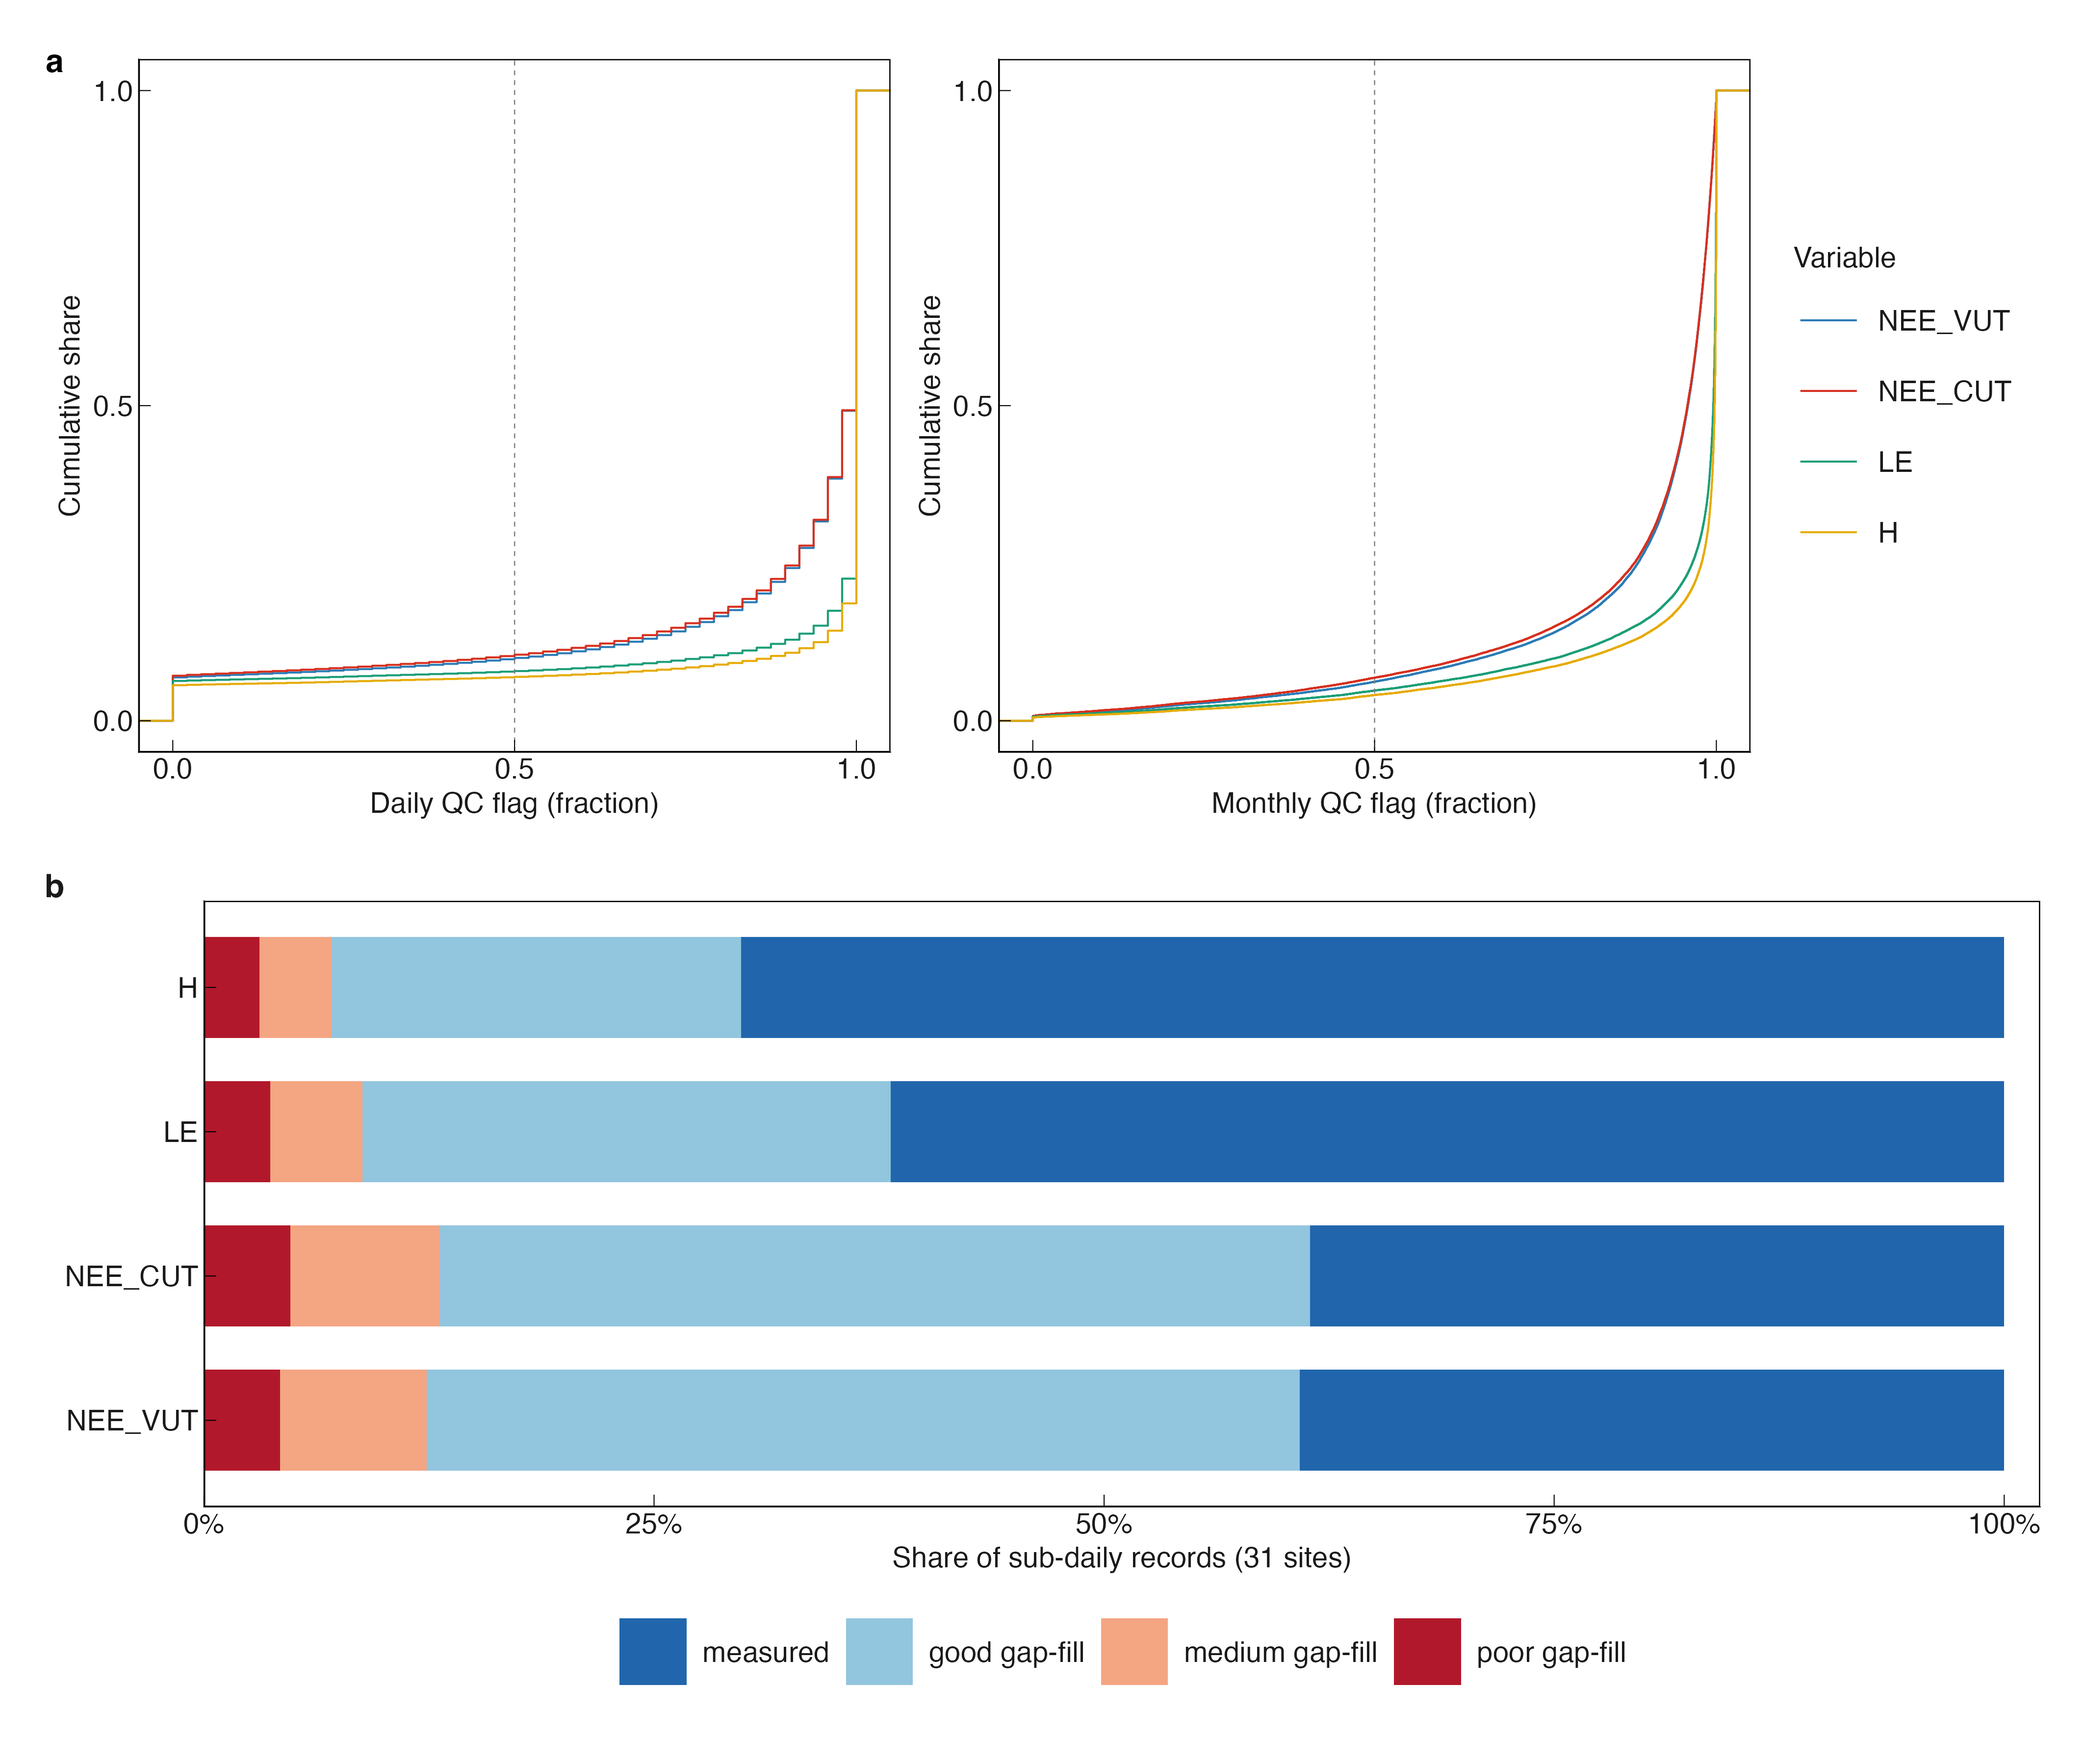
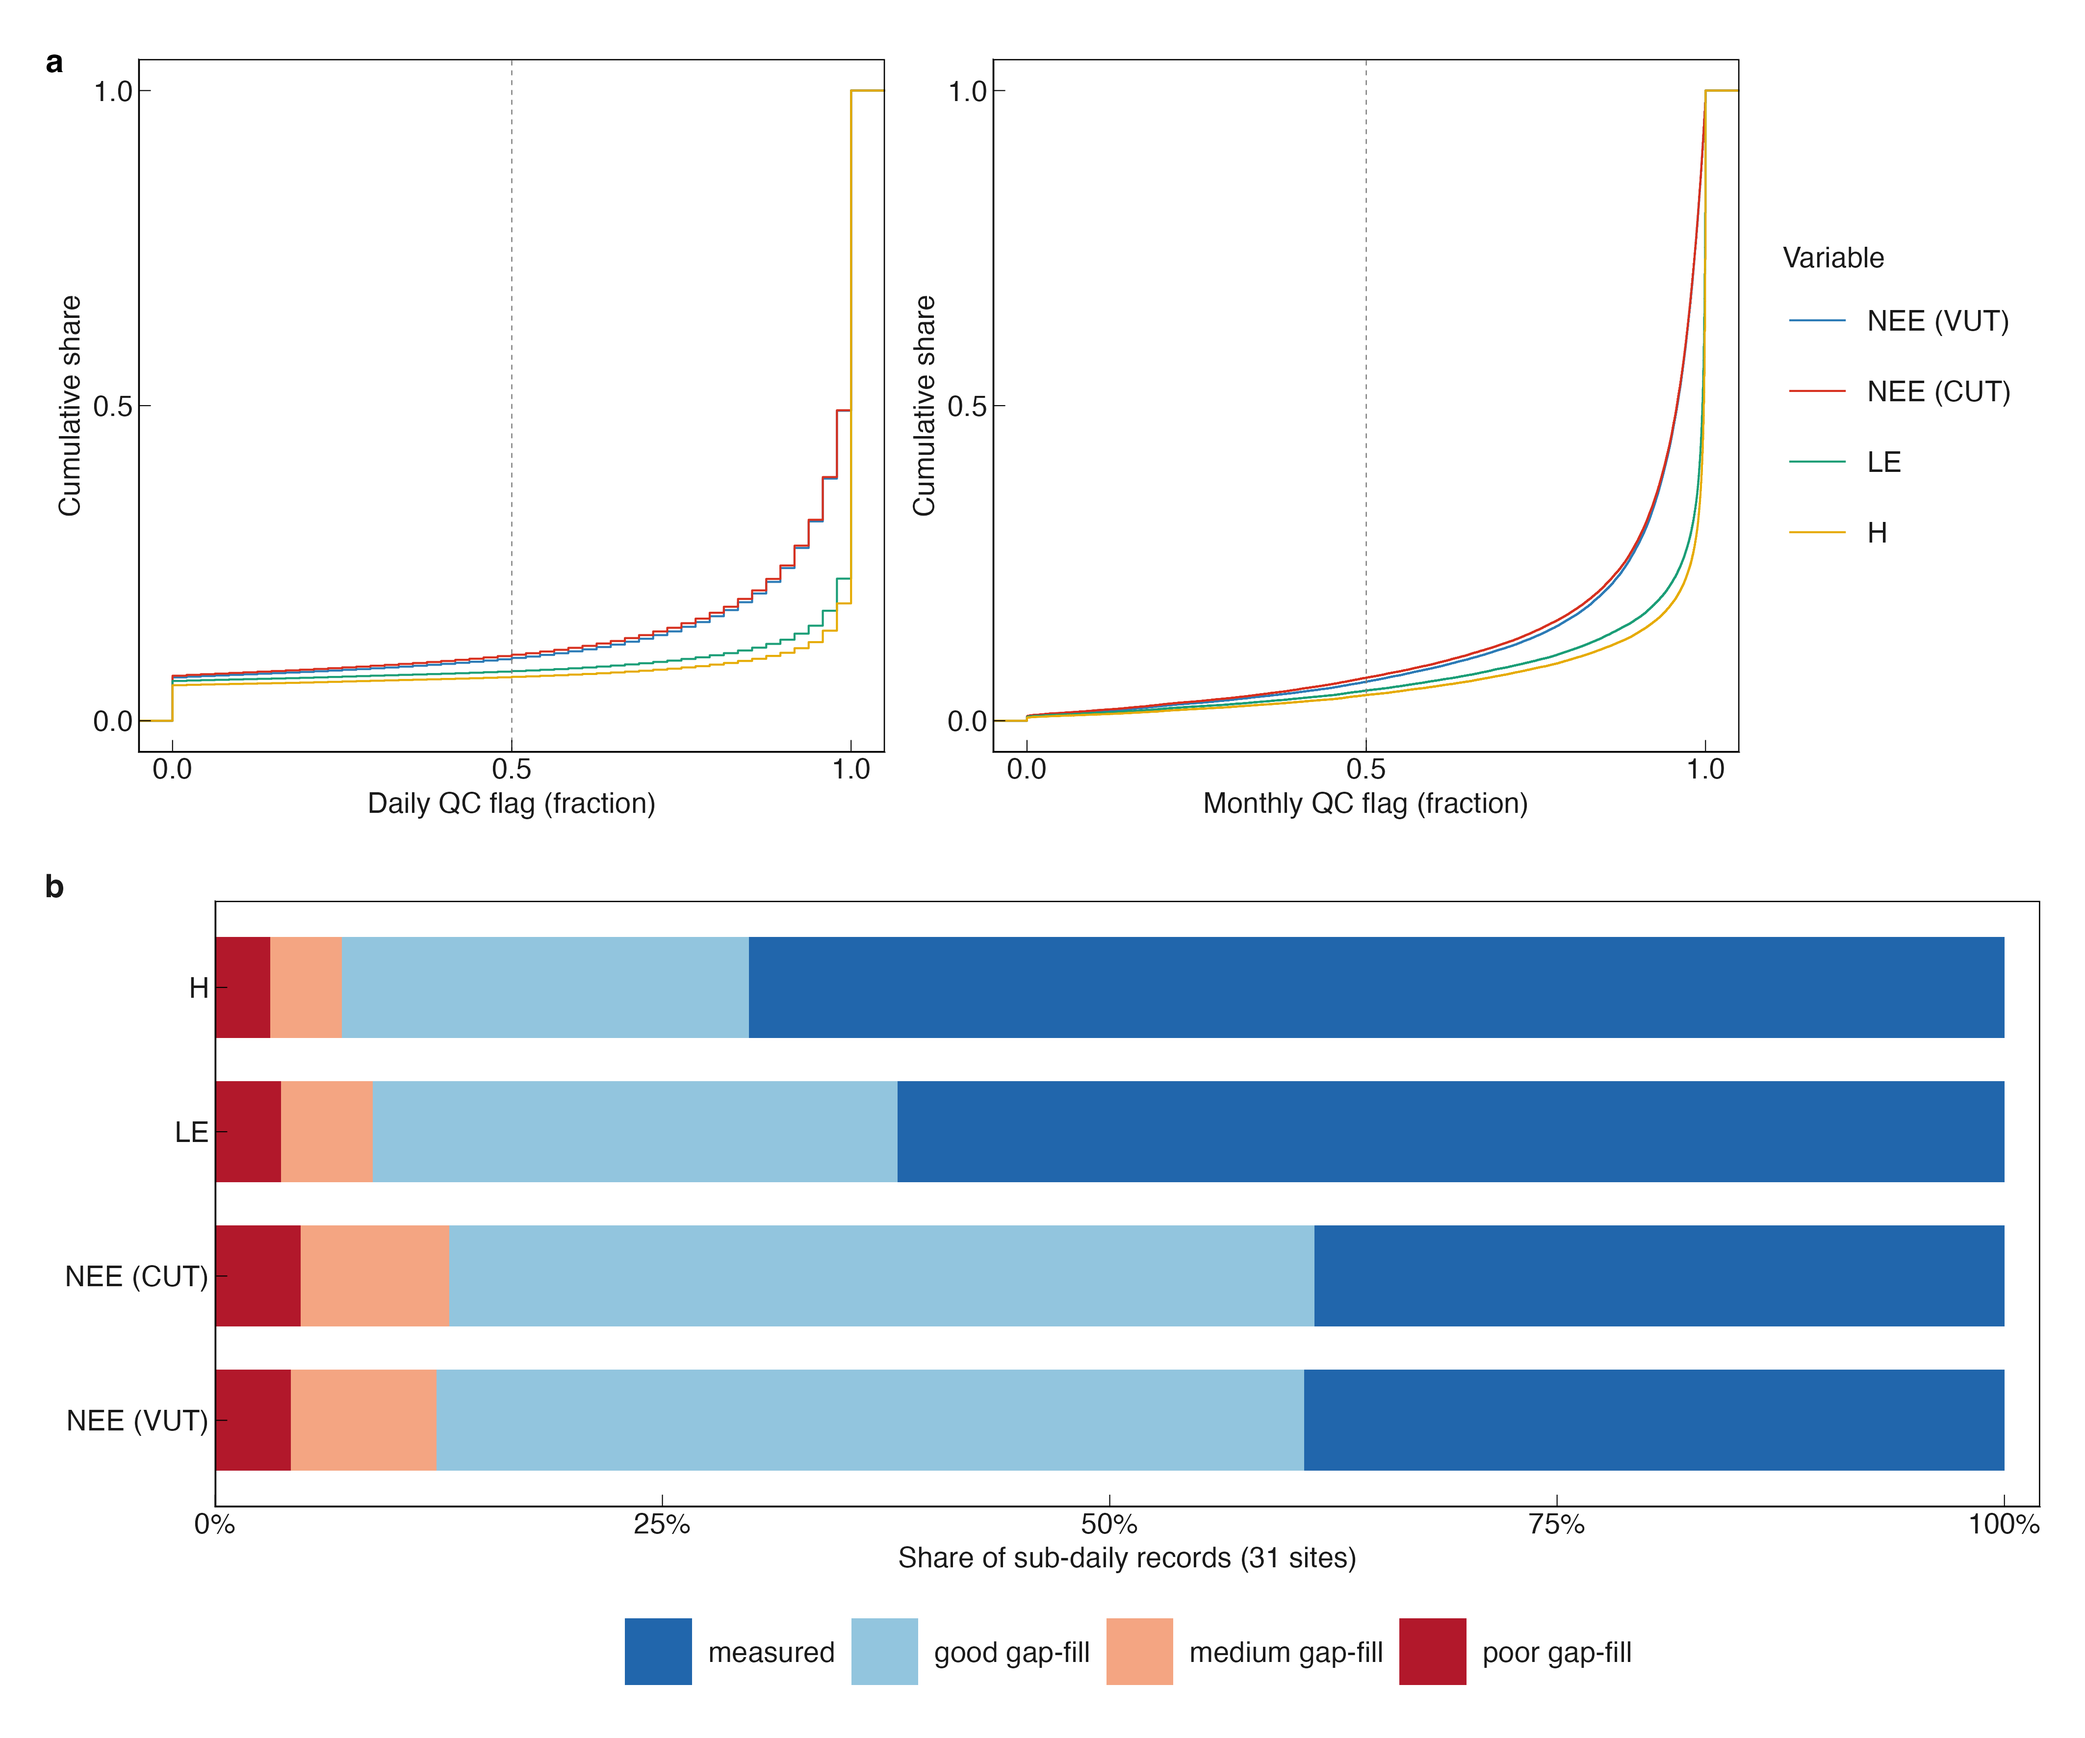
Fix Figure 6 panel c text layout and NEE_VUT/NEE_CUT display labels
Figure 6 panel c: the in-panel annotation collided with the y-axis
"1500" tick label and its three lines were mutually misaligned. Cause:
annotate("text") with a non-0/1 hjust mis-justifies a multi-line label's
lines relative to each other. Fixed with hjust = 0 exactly, the anchor
moved right off the left edge, more top expansion for headroom, and
thousands separators in the counts ("152 of 3,960").

Figure 6 panel a and Supplementary Figure S5 (both panels): relabelled
the four QC variables for display only -- "NEE (VUT)", "NEE (CUT)",
"LE", "H" -- same order and colours as the underlying NEE_VUT/NEE_CUT/
LE/H columns, via a shared VAR_LABELS vector in each script. S5 panel
b's coord_flip() category axis previously showed the raw column names
with no scale_x_discrete() labels at all.

Also corrected a stale S5 legend line that still said annual QC "moves
to Figure 6 (not built in this run)".

Same names, gates, and check_figure_format.R checks as before (14/14
PASS).

diff --git a/logs/prompts/2026-10-13_fig06_fixes.md b/logs/prompts/2026-10-13_fig06_fixes.md
@@ -1,0 +1,6 @@
+Small fixes to Figure 6 (commit 577af22) and S5. Same names, gates and checks.
+
+- Fig 6c: move the in-panel text right, or add headroom, so it clears the y-axis tick labels; align the three lines; use thousands separators ("152 of 3,960").
+- Fig 6a and S5 (both panels): variable labels "NEE (VUT)", "NEE (CUT)", "LE", "H" in place of the column names, same order and colours.
+
+Save this prompt as logs/prompts/2026-10-13_fig06_fixes.md. Log, commit and push per CLAUDE.md.
